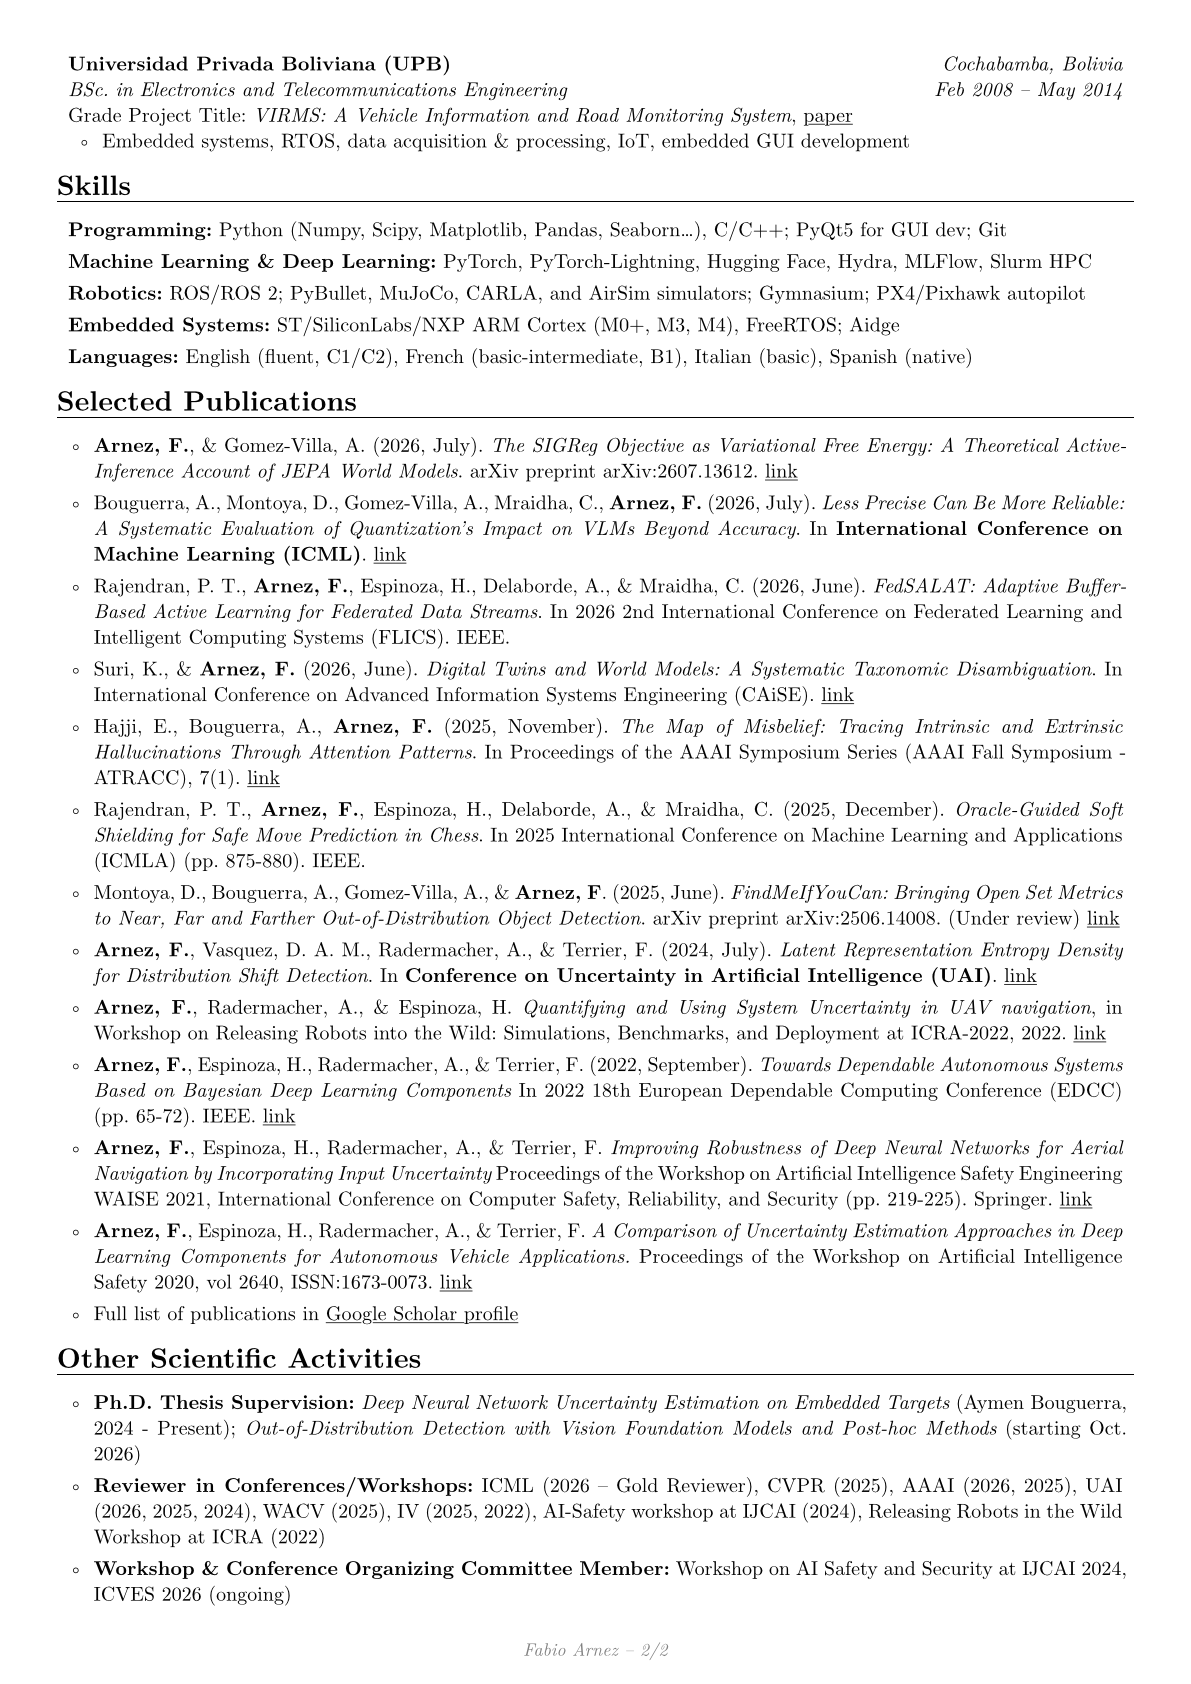
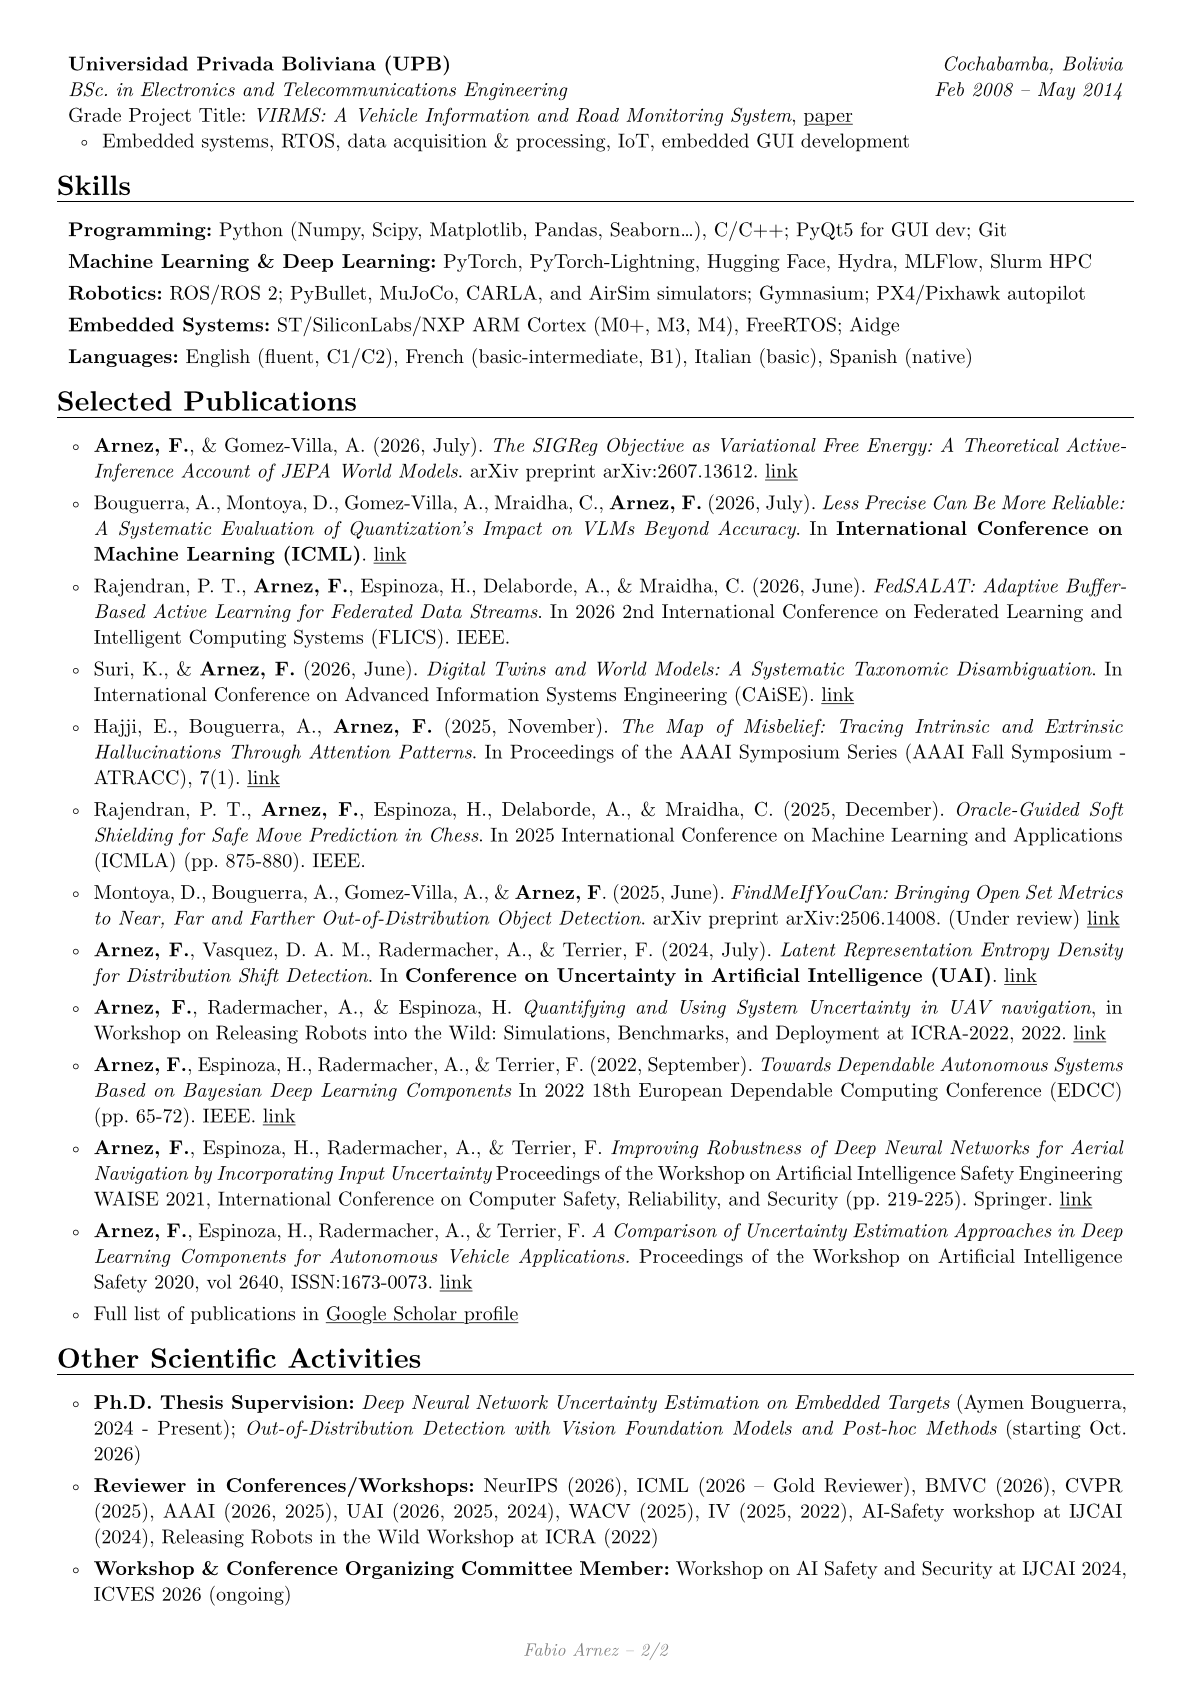
Update CV: Added new conference reviews and updated thesis supervision details

Changed region(s): [[0.0932, 0.8646, 0.932, 0.9264]]

diff --git a/rendercv_output/Fabio_Arnez_CV.html b/rendercv_output/Fabio_Arnez_CV.html
@@ -213,7 +213,7 @@
         <p><strong>Ph.D. Thesis Supervision:</strong> <em>Deep Neural Network Uncertainty Estimation on Embedded Targets</em> (Aymen Bouguerra, 2024 - Present); <em>Out-of-Distribution Detection with Vision Foundation Models and Post-hoc Methods</em> (starting Oct. 2026)</p>
         </li>
         <li>
-        <p><strong>Reviewer in Conferences/Workshops:</strong> ICML (2026 -- Gold Reviewer), CVPR (2025), AAAI (2026, 2025), UAI (2026, 2025, 2024), WACV (2025), IV (2025, 2022), AI-Safety workshop at IJCAI (2024), Releasing Robots in the Wild Workshop at ICRA (2022)</p>
+        <p><strong>Reviewer in Conferences/Workshops:</strong> NeurIPS (2026), ICML (2026 -- Gold Reviewer), BMVC (2026), CVPR (2025), AAAI (2026, 2025), UAI (2026, 2025, 2024), WACV (2025), IV (2025, 2022), AI-Safety workshop at IJCAI (2024), Releasing Robots in the Wild Workshop at ICRA (2022)</p>
         </li>
         <li>
         <p><strong>Workshop &amp; Conference Organizing Committee Member:</strong> Workshop on AI Safety and Security at IJCAI 2024, ICVES 2026 (ongoing)</p>

diff --git a/rendercv_output/Fabio_Arnez_CV.md b/rendercv_output/Fabio_Arnez_CV.md
@@ -189,6 +189,6 @@ Grade Project Title: *VIRMS: A Vehicle Information and Road Monitoring System*, 
 # <<section_title>>
 - **Ph.D. Thesis Supervision:** *Deep Neural Network Uncertainty Estimation on Embedded Targets* (Aymen Bouguerra, 2024 - Present); *Out-of-Distribution Detection with Vision Foundation Models and Post-hoc Methods* (starting Oct. 2026)
 
-- **Reviewer in Conferences/Workshops:** ICML (2026 -- Gold Reviewer), CVPR (2025), AAAI (2026, 2025), UAI (2026, 2025, 2024), WACV (2025), IV (2025, 2022), AI-Safety workshop at IJCAI (2024), Releasing Robots in the Wild Workshop at ICRA (2022)
+- **Reviewer in Conferences/Workshops:** NeurIPS (2026), ICML (2026 -- Gold Reviewer), BMVC (2026), CVPR (2025), AAAI (2026, 2025), UAI (2026, 2025, 2024), WACV (2025), IV (2025, 2022), AI-Safety workshop at IJCAI (2024), Releasing Robots in the Wild Workshop at ICRA (2022)
 
 - **Workshop & Conference Organizing Committee Member:** Workshop on AI Safety and Security at IJCAI 2024, ICVES 2026 (ongoing)
